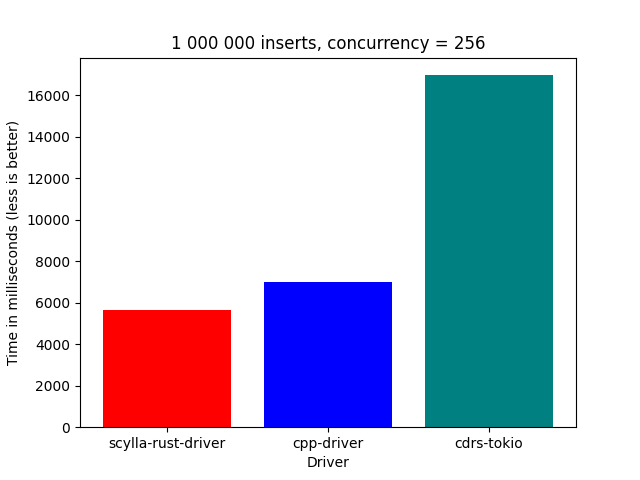
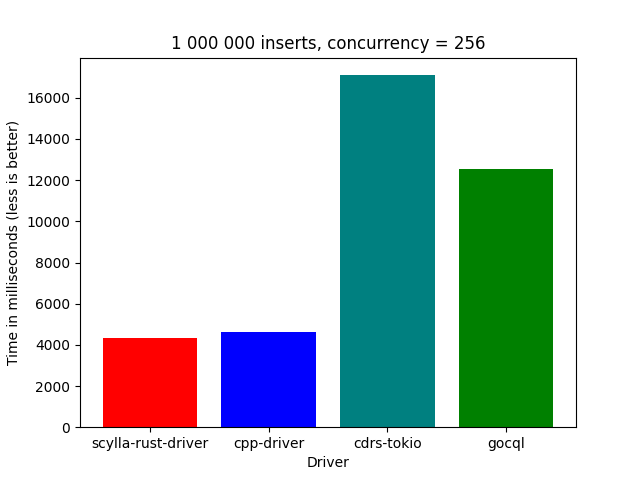
Add gocql to chart

diff --git a/generate_chart/config.py b/generate_chart/config.py
@@ -3,7 +3,8 @@ benchmark_title = "1 000 000 inserts, concurrency = 256"
 
 # Benchmark results in ms
 benchmark_results = {
-    'scylla-rust-driver': 5657,
-    'cpp-driver': 7016,
-    'cdrs-tokio': 16962
+    'scylla-rust-driver': 4330,
+    'cpp-driver': 4645,
+    'cdrs-tokio': 17098,
+    'gocql': 12548
 }

diff --git a/README.md b/README.md
@@ -4,9 +4,10 @@ Benchmarks for Scylla Rust Driver
 ## Benchmarks
 * Basic - performs basic operations (inserts/selects), max `concurrency` active requests at once
     * 1 000 000 inserts, concurrency = 256
-        * `scylla-rust-driver`: 5657ms
-        * `cpp-driver`: 7016ms
-        * `cdrs-tokio`: 16962ms
+        * `scylla-rust-driver`: 4330ms
+        * `cpp-driver`: 4645ms
+        * `cdrs-tokio`: 17098ms
+        * `gocql`: 12548ms
     
     ![](images/basic_insert_1e6_256.png)
 
